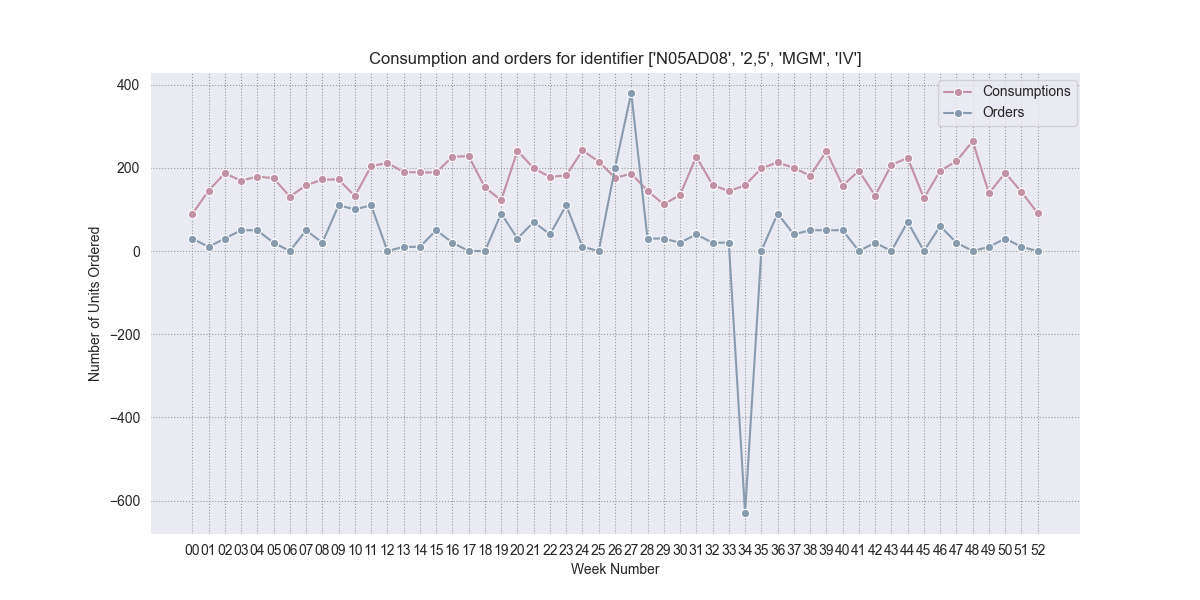
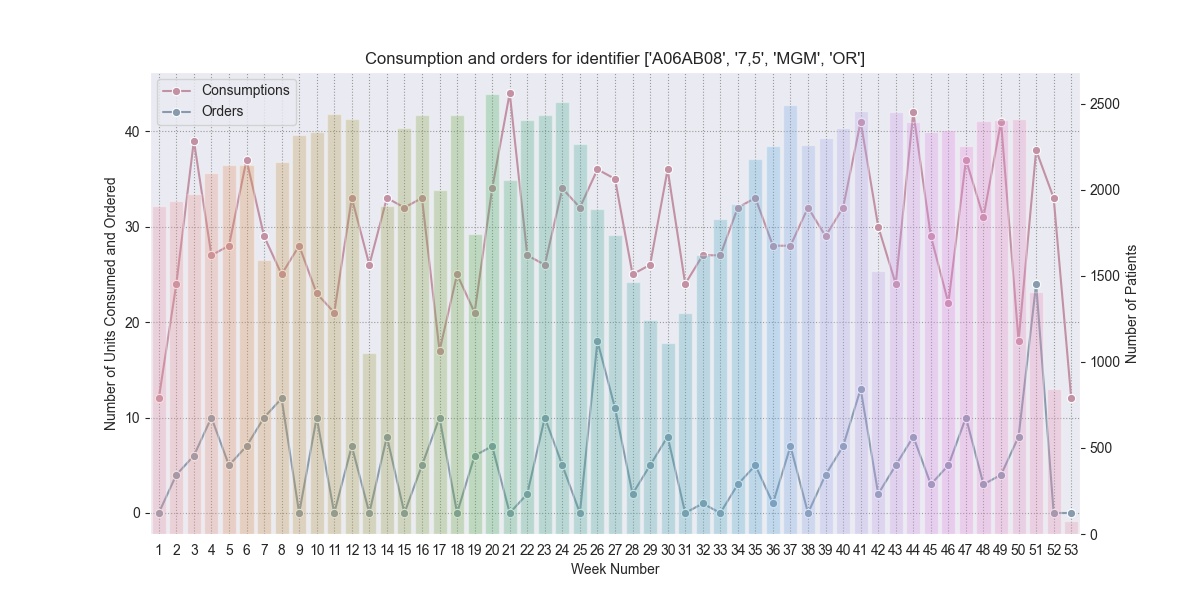
Updated

diff --git a/Tendencies.py b/Tendencies.py
@@ -1,3 +1,4 @@
+import numpy as np
 import pandas as pd
 import matplotlib.pyplot as plt
 from collections import Counter
@@ -5,80 +6,29 @@ import seaborn as sns
 import json
 
 # Load Data
-con_data = pd.read_csv('./Data/matched_con_data.csv', sep=',', low_memory=False)
-order_data = pd.read_csv('./Data/matched_order_data.csv', sep=',', low_memory=False)
-con_data = con_data.sort_values('Date').reset_index(drop=True)
-f = open('./Data/A_keys.json')
-A_keys = json.load(f)
+f = open('./Data/Patients_Weekly.json')
+pw = json.load(f)
+f = open('./Data/c1.json')
+cons = json.load(f)
+A_keys = list(cons.keys())
+f = open('./Data/weekly_orders_Akeys.json')
+orders = json.load(f)
 
-# Get all department names
-department_names = list(Counter(con_data['Department']).keys())
-
-def weekly_orders_department_total(order_data,keys):
-    weekly_orders = {}
-
-    weekly_units = []
-    for i in range(1,53,1):
-        order_data['weekly_units_w{}'.format(i)] = order_data['Number_of_Packages_w{}'.format(i)]*order_data['Quantity']
-        weekly_units.append('weekly_units_w{}'.format(i))
-
-    for key in keys:
-        df = order_data.loc[lambda order_data: order_data['Key'] == key]
-        df = df.reset_index()
-        df = df[weekly_units]
-        df = df.fillna(0)
-        sums = list(df.sum())
-        weekly_orders[key] = sums
-    return weekly_orders
-
-weekly_orders = weekly_orders_department_total(order_data,A_keys)
-
-def con_time(df,key):
-    df = df.loc[lambda df: df['Key'] == key]
-    df['Date'] = pd.to_datetime(df['Date'])
-    df = df.groupby(['Key', df['Date'].dt.strftime('%W')])[
-        'Number_ordinations'].sum()
-    df = df.to_frame()
-    df = df.reset_index(level=[0,1])
-    for i in range(0,53,1):
-        if i <=9:
-            i = '0{}'.format(i)
-            if i not in list(df['Date']):
-                df = df.append({'Key':key,'Date': i,'Number_ordinations':0},ignore_index=True)
-        else:
-            if str(i) not in list(df['Date']):
-                df = df.append({'Key':key,'Date': str(i),'Number_ordinations':0},ignore_index=True)
-    df = df.sort_values(by=['Date'])
-    return df
-
-def plot_tendencies(con_data,weekly_orders,key,j):
-    orders = weekly_orders[key]
-    df = con_time(con_data,key)
-    if len(df) == 53:
-        orders.append(0)
+def plot_tendencies(c,o,p,k,j):
     ax1 = sns.set_style("darkgrid", {"grid.color": ".6", "grid.linestyle": ":"})
     fig, ax1 = plt.subplots(figsize=(12, 6))
-    pc = sns.lineplot(data=df,x='Date',y='Number_ordinations', marker='o',color='#C291A4', sort=False, label='Consumptions')
-    #ax2 = ax1.twinx()
-    #ax2.grid(None)
-    po = sns.lineplot(data=df, x='Date', y=orders, marker='o',color = '#889BAE', sort=False, label='Orders')
+    pc = sns.lineplot(x=p['Week'],y=c[k], marker='o',color='#C291A4', sort=False, label='Consumptions',ax=ax1)
+    po = sns.lineplot(x=p['Week'], y=o[k], marker='o',color = '#889BAE', sort=False, label='Orders',ax=ax1)
+    ax2 = ax1.twinx()
+    ax2.grid(None)
+    pp = sns.barplot(data = p,x='Week', y='Patients', alpha=0.3, ax=ax2,order=None)
     pc.set_xlabel('Week Number', fontsize=10)
-    pc.set_ylabel('Number of Units Consumed', fontsize=10)
-    po.set_ylabel('Number of Units Ordered', fontsize=10)
+    pc.set_ylabel('Number of Units Consumed and Ordered', fontsize=10)
+    pp.set_ylabel('Number of Patients', fontsize=10)
     pc.set_title('Consumption and orders for identifier {}'.format(key))
-    sns.move_legend(po, "upper left", bbox_to_anchor=(.89, .95))
-    sns.move_legend(pc, "upper left", bbox_to_anchor=(.84, .998))
-
     plt.savefig('./Figures/Department_orders_consumptions{}.png'.format(j))
 
+p = pd.DataFrame(list(zip(pw.keys(),pw.values())), columns=['Week','Patients'])
 for j, key in enumerate(A_keys):
-    plot_tendencies(con_data,weekly_orders,key,j)
+    plot_tendencies(cons,orders,p,key,j)
 
-print(a)
-
-
-l = {}
-for key in A_keys:
-    d = order_data.loc[lambda order_data: order_data['Key'] == key]
-    d1 = con_data.loc[lambda con_data: con_data['Key'] == key]
-    l[key] = [d['Units'].sum(),len(d1)]

diff --git a/Descriptive_statistics.py b/Descriptive_statistics.py
@@ -15,6 +15,9 @@ con_dict = json.load(f)
 f = open('./Data/weekly_orders_Akeys.json')
 order_dict = json.load(f)
 
+f = open('./Data/Patients_Weekly.json')
+pw = json.load(f)
+
 def des_stat(d):
     keys = sorted(d.keys())
     mini = []
@@ -58,7 +61,8 @@ def choose_identifiers(df,d):
     return con_dict_updated
 
 con_dict_updated = choose_identifiers(con_stat,con_dict)
-
+with open('./Data/c1.json', 'w') as f:
+    json.dump(con_dict_updated, f)
 def test_normality(d):
     keys = []
     p_val = []
@@ -109,6 +113,11 @@ def new_df(d):
     df['Holidays'] = holiday_calender
     return df
 
+def new_df1(d,p):
+    df = pd.DataFrame.from_dict(d,orient='columns')
+    df['Patients'] = p.values()
+    return df
+
 def corrfunc(x, y, **kws):
     r, _ = stats.pearsonr(x, y)
     ax = plt.gca()
@@ -126,24 +135,31 @@ def cor_plot(df):
     plt.savefig('./Figures/Correlation_Holidays.png')
     plt.close('all')
 
-def corr_matrix(df):
+def corr_matrix(df,j):
     ax1 = sns.set_style("darkgrid", {"grid.color": ".6", "grid.linestyle": ":"})
     fig, ax1 = plt.subplots(figsize=(17, 12))
     corr = df.corr()
     sns.heatmap(corr,
                 xticklabels=corr.columns.values,
                 yticklabels=corr.columns.values,ax=ax1,cmap='Blues_r',annot=True)
-    ax1.set_title('Correlation Matrix for Condumed Medicine and Holidays',fontsize=25)
     plt.yticks(rotation=-30)
     plt.xticks(rotation=30)
-    plt.savefig('./Figures/Correlation_Matrix.png')
+    if j == 'Holidays':
+        ax1.set_title('Correlation Matrix for Condumed Medicine and Holidays',fontsize=25)
+        plt.savefig('./Figures/Correlation_Matrix_H.png')
+    elif j == 'Patients':
+        ax1.set_title('Correlation Matrix for Consumed Medicine and Holidays',fontsize=25)
+        plt.savefig('./Figures/Correlation_Matrix_P.png')
 
 
 df1 = new_df(con_dict_updated)
-cor_plot(df1)
-corr_matrix(df1)
 
-print(a)
+cor_plot(df1)
+corr_matrix(df1,j='Holidays')
+
+df2 = new_df1(con_dict_updated,pw)
+corr_matrix(df2,j='Patients')
+
 
 
 

diff --git a/sort_patients_weekly.py b/sort_patients_weekly.py
@@ -1,8 +1,9 @@
 import pandas as pd
-import numpy as np
 import json
+from collections import Counter
+
 patients = pd.read_csv('./Data/patiens_arrived.csv',sep = ';')
-order_data = pd.read_csv('./Data/order_data.csv',sep = ',')
+order_data = pd.read_csv('./Data/matched_order_data.csv',sep = ',')
 
 def match_deps(order_data,patients):
     patients['Behandlingsansvarlig Afdeling navn'] = patients['Behandlingsansvarlig Afdeling navn'].str.split(',').str[
@@ -22,18 +23,20 @@ wp = []
 for i in range(1,53):
     wp.append('Week_{}'.format(i))
 
-dictionary = {}
-for dep in list(set(patients['Department'])):
-    patients_weekly = []
-    df = patients[patients['Department'] == dep]
-    for i in range(1,53):
-        df1 = df[df['Kontakt startdato Uge nummer'] == i]
-        patients_weekly.append(len(df1))
-    dictionary[dep] = patients_weekly
-    dictionary['AHOC, The Department of Anesthesiology'] = [0]*52
-patients1 = pd.DataFrame.from_dict(dictionary,orient='index')
-patients1 = patients1.reset_index(drop=False)
-wp.insert(0,'Department')
-patients1.columns = wp
+def weekly_count(df,k,k1):
+    d = df.loc[df[k]==df[k1]]
+    d1 = df.loc[df[k]!=df[k1]]
+    pw = Counter(d[k])
+    d1_1 = list(d1[k])
+    d1_2 = list(d1[k1])
+    for i,week in enumerate(d1_1):
+        pw[week] += 1
+        for j in range(1,(d1_2[i]-week)+1,1):
+            pw[week+j] += 1
+    return pw
 
-patients1.to_csv('./Data/patients_weekly.csv',index=False)
+patients_weekly = weekly_count(patients,'Kontakt startdato Uge nummer','Kontakt slutdato Uge nummer')
+p = dict(sorted(patients_weekly.items()))
+
+with open('./Data/Patients_Weekly.json', 'w') as f:
+    json.dump(p, f)

diff --git a/ABC.py b/ABC.py
@@ -98,11 +98,14 @@ print('Percent of Cost of Class C :', df[df.Class == 'C']['AnnualConsumptionValu
 print(df.describe())
 
 # Scatterplot
-fig, scatter = plt.subplots(dpi=100)
+ax1 = sns.set_style("darkgrid", {"grid.color": ".6", "grid.linestyle": ":"})
+fig, ax1 = plt.subplots(figsize=(12, 6))
 scatter = sns.scatterplot(data=df, x="Qty", y="AnnualConsumptionValue", hue="Class", size="UnitCost", palette="husl", legend=False)
-scatter.set_title("Quantity vs Annual Consumption Value")
-sns.set(style="darkgrid")
-plt.show()
+scatter.set_title("Quantity vs Annual Consumption Value",fontsize=20)
+scatter.set_xlabel('Quantity',fontsize=15)
+scatter.set_ylabel('Annual Consumption Value',fontsize=15)
+plt.savefig('./Figures/ABCScatter.png')
+plt.close('all')
 
 # Graph
 performance = df['CumPct'].tolist()

diff --git a/Time_Series_Analysis.py b/Time_Series_Analysis.py
@@ -1,0 +1,22 @@
+import json
+import pandas as pd
+import matplotlib.pyplot as plt
+import statsmodels.api as sm
+
+f = open('./Data/c1.json')
+cons = json.load(f)
+
+def ACF(c,k):
+    print(a)
+    df = pd.DataFrame(list(zip(c[k])), columns=[k])
+
+
+for key in cons.keys():
+    ACF(cons,key)
+
+dta = sm.datasets.sunspots.load_pandas().data
+dta.index = pd.Index(sm.tsa.datetools.dates_from_range('1700', '2008'))
+del dta["YEAR"]
+sm.graphics.tsa.plot_acf(dta.values.squeeze(), lags=40)
+plt.show()
+print(a)

diff --git a/Correlations.py b/Correlations.py
@@ -1,0 +1,4 @@
+import pandas as pd
+import matplotlib.pyplot as plt
+import statsmodels.api as sm
+
